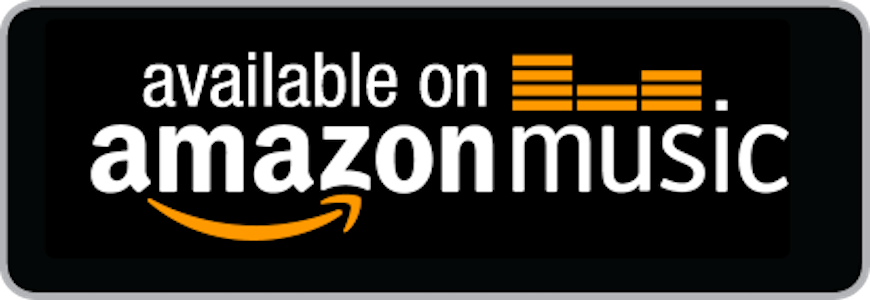
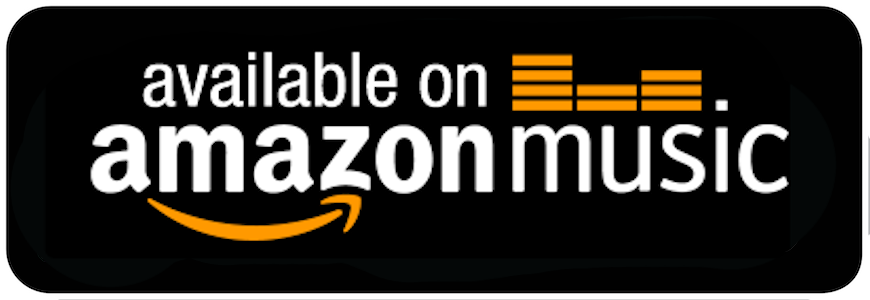
Update buy buttons

Changed region(s): [[0.0, 0.0, 1.0, 1.0]]

diff --git a/scripts/merch.js b/scripts/merch.js
@@ -28,7 +28,7 @@ angular.module('emptyatlasgithubioApp').service('MerchService', function () {
         imagePath: merchImgDir + '/hestia_t_shirt.png'
                         }, {
         name: 'HESTIA ALBUM',
-        desc: '10 tracks',
+        desc: 'Physical Copy, 10 Tracks',
         price: '$10.00',
         link: hestiaCdLink,
         imagePath: merchImgDir + '/hestia_album.png'
@@ -51,7 +51,7 @@ angular.module('emptyatlasgithubioApp').service('MerchService', function () {
         imagePath: merchImgDir + '/blue_compass_low_stock.png'
                         }, {
         name: 'ANNIVERSARY ALBUM',
-        desc: '9 tracks including 3 B-sides',
+        desc: 'Physical Copy, 9 Tracks Including 3 B-sides',
         price: '$5.00',
         link: anniversaryCdLink,
         imagePath: merchImgDir + '/anniversary.png'

diff --git a/views/main.html b/views/main.html
@@ -22,7 +22,7 @@
     <a href="http://a.co/1xmrrPv" target="_blank"><img src="images/buy_btn_amazon.png" style="height: 100%; width: 100%; max-width: 300px;"></a>
   </div>
   <div class="col-md-3 col-sm-6 col-xs-12" style="margin-bottom: 10px;">
-    <a href="https://squareup.com/store/empty-atlas-music/item/hestia-album" target="_blank"><img src="images/buy_btn_square.png" style="height: 100%; width: 100%; max-width: 300px;"></a>
+    <a href="https://squareup.com/store/empty-atlas-music/item/hestia-album" target="_blank"><img src="images/buy_btn_square2.png" style="height: 100%; width: 100%; max-width: 300px;"></a>
   </div>
 </div><!--<div class="jumbotron" align="center">--><!--<div><img src="/images/ea_logo_vertical_white.png"></div>--><!--</div>-->
 
